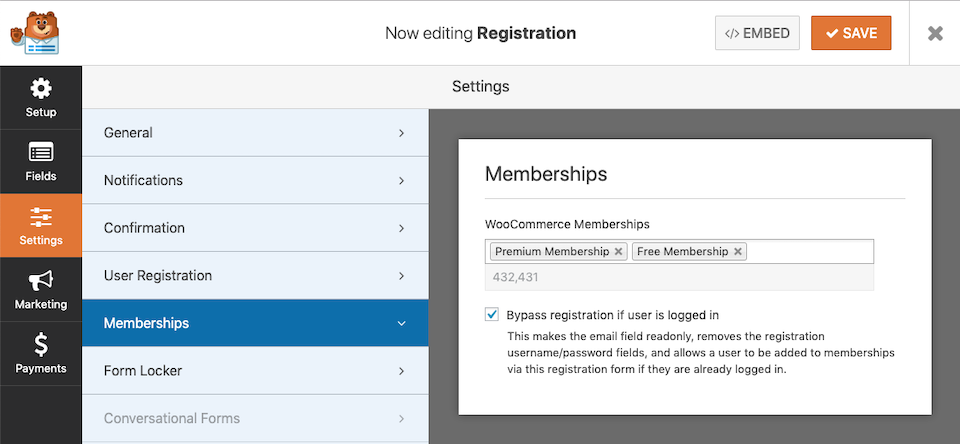
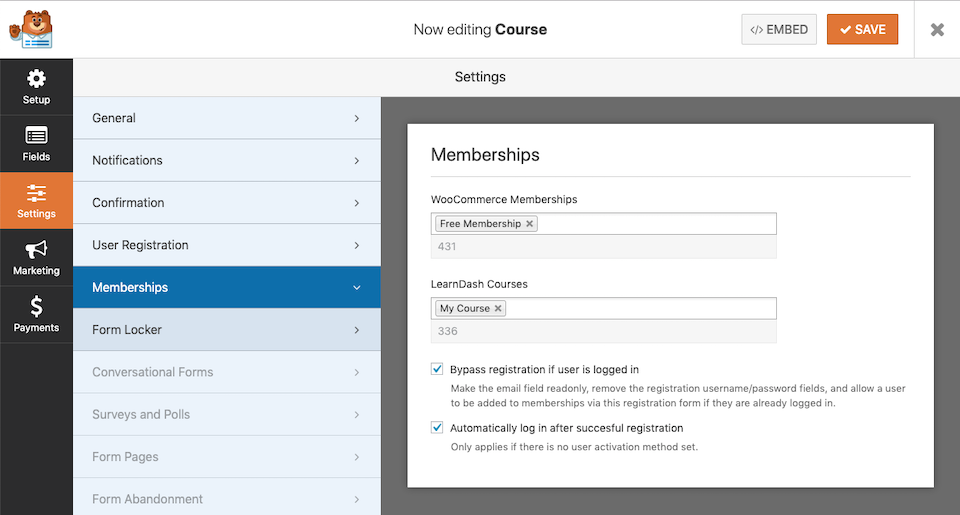
Readme and new screenshot

diff --git a/README.md b/README.md
@@ -7,6 +7,7 @@ Add users to WooCommerce Memberships with WPForms.
 * Add a user to one or more memberships upon successful form submission.
 * Use a registration form to register a user before adding them to a membership.
 * Bypass user registration if the user is already logged in. This allows you to use one form (User Registration) for membership access when you may have existing (logged in) users that want to join a membership.
+* Automatically log in a user after successful registration.
 * Adds a login link to the error message of a User Registration form if an existing username/email is used. Link will auto-redirect the user back to the URL with the original form.
 
 ## How To Use
@@ -15,6 +16,7 @@ Add users to WooCommerce Memberships with WPForms.
 1. Create a User Registration form (requires WP Forms full version).
 1. Add one or more WooCommerce Membership Plans in the form settings.
 1. Optionally allow bypassing the registration process in WP Forms for logged in users that may try to fill out the form.
+1. Optionally allow auto login of the user after successful user registration.
 1. Configure the form and settings accordingly, to successfully create a user.
 1. Configure notifications/redirect as needed, typically configured based on whether user approval is required. If user approval is not required it may be nice to redirect the user right to the content.
 
